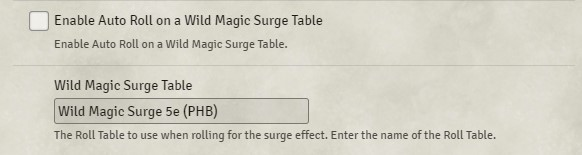
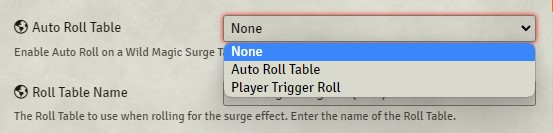
Add option for Player Trigger on roll table

diff --git a/scripts/MagicSurgeCheck.ts b/scripts/MagicSurgeCheck.ts
@@ -256,12 +256,30 @@ class MagicSurgeCheck {
           `${WMSCONST.OPT_AUTO_D20_MSG_ENABLED}`
         )
       ) {
-        Chat.Send(
-          WMSCONST.CHAT_TYPE.ROLL,
+        let chatSurgeMessage = "";
+        if (
           game.settings.get(
             `${WMSCONST.MODULE_ID}`,
+            `${WMSCONST.OPT_ROLLTABLE_ENABLE}`
+          ) === "PLAYER_TRIGGER"
+        ) {
+          chatSurgeMessage = `<br /><div class="card-buttons wms-roll-table-buttons">
+          <button class="roll-table-wms">
+          ${game.i18n.format(
+            "WildMagicSurge5E.es_roll_on_table"
+          )} ${game.settings.get(
+            `${WMSCONST.MODULE_ID}`,
+            `${WMSCONST.OPT_ROLLTABLE_NAME}`
+          )}
+          </button>
+      </div>`;
+        }
+        Chat.Send(
+          WMSCONST.CHAT_TYPE.ROLL,
+          `${game.settings.get(
+            `${WMSCONST.MODULE_ID}`,
             `${WMSCONST.OPT_AUTO_D20_MSG}`
-          ),
+          )}${chatSurgeMessage}`,
           roll
         );
       }
@@ -330,12 +348,30 @@ class MagicSurgeCheck {
         `${WMSCONST.OPT_AUTO_D20_MSG_ENABLED}`
       )
     ) {
-      Chat.Send(
-        WMSCONST.CHAT_TYPE.DEFAULT,
+      let chatSurgeMessage = "";
+      if (
         game.settings.get(
           `${WMSCONST.MODULE_ID}`,
+          `${WMSCONST.OPT_ROLLTABLE_ENABLE}`
+        ) === "PLAYER_TRIGGER"
+      ) {
+        chatSurgeMessage = `<br /><div class="card-buttons wms-roll-table-buttons">
+        <button class="roll-table-wms">
+        ${game.i18n.format(
+          "WildMagicSurge5E.es_roll_on_table"
+        )} ${game.settings.get(
+          `${WMSCONST.MODULE_ID}`,
+          `${WMSCONST.OPT_ROLLTABLE_NAME}`
+        )}
+        </button>
+    </div>`;
+      }
+      Chat.Send(
+        WMSCONST.CHAT_TYPE.DEFAULT,
+        `${game.settings.get(
+          `${WMSCONST.MODULE_ID}`,
           `${WMSCONST.OPT_AUTO_D20_MSG}`
-        )
+        )}${chatSurgeMessage}`
       );
     }
     TidesOfChaos.Check(this._actor);

diff --git a/scripts/module.ts b/scripts/module.ts
@@ -7,6 +7,7 @@ import { ActorHelperPanel } from "./panels/ActorHelperPanel";
 import { RoundData } from "@league-of-foundry-developers/foundry-vtt-types/src/foundry/client/data/documents/combat";
 import Logger from "./Logger";
 import Flags from "./utils/Flags";
+import RollTableMagicSurge from "./RollTableMagicSurge";
 
 Hooks.on("init", function () {
   Logger.log(`Registering ${WMSCONST.MODULE_NAME} Settings.`, "module.init");
@@ -16,6 +17,21 @@ Hooks.on("init", function () {
   Logger.log(
     `Settings for ${WMSCONST.MODULE_NAME} registered successfully.`,
     "module.init"
+  );
+
+  Hooks.on(
+    "renderChatMessage",
+    async function (app: FormApplication, html: object, data: object) {
+      const rollTableButton = html.find(".roll-table-wms");
+      if (rollTableButton && rollTableButton.length > 0) {
+        rollTableButton.unbind();
+        rollTableButton.on("click", (e) => {
+          e.preventDefault();
+          e.stopPropagation();
+          RollTableMagicSurge.RollOnTable();
+        });
+      }
+    }
   );
 });
 

diff --git a/README.md b/README.md
@@ -104,11 +104,17 @@ When enabled, each time a incremental check for a surge changes it is posted to 
 
 ### Enable Auto Roll on a Wild Magic Surge Table
 
-This option takes things a step further and will roll a Roll Table on a `Wild Magic Surge`.
+Choose how to auto roll on a Wild Magic Surge Table.
+
+1. None - This won't do any auto rolling on a table
+2. Auto Roll Table - This will automatically roll for the player and display the roll table results
+3. Player Trigger Roll - Will prompt in the Wild Magic Surge message for the Player to click a button to roll on the table and display the results.
 
 You can configure a Custom Roll Table by replacing the default name in the settings with your own version.
 
 [![Enable Auto Roll on a Wild Magic Surge Table](https://raw.githubusercontent.com/johnnolan/wild-magic-surge-5e/main/images/enable-auto-roll-table.jpg)](https://raw.githubusercontent.com/johnnolan/wild-magic-surge-5e/main/images/enable-auto-roll-table.jpg)
+[![Enable Auto Roll on a Wild Magic Surge Table](https://raw.githubusercontent.com/johnnolan/wild-magic-surge-5e/main/images/enable-auto-roll-table-2.jpg)](https://raw.githubusercontent.com/johnnolan/wild-magic-surge-5e/main/images/enable-auto-roll-table-2.jpg)
+[![Roll on table option](https://raw.githubusercontent.com/johnnolan/wild-magic-surge-5e/main/images/roll-on-table.jpg)](https://raw.githubusercontent.com/johnnolan/wild-magic-surge-5e/main/images/roll-on-table.jpg)
 
 ### Execute a GM Macro on a Wild Magic Surge
 
